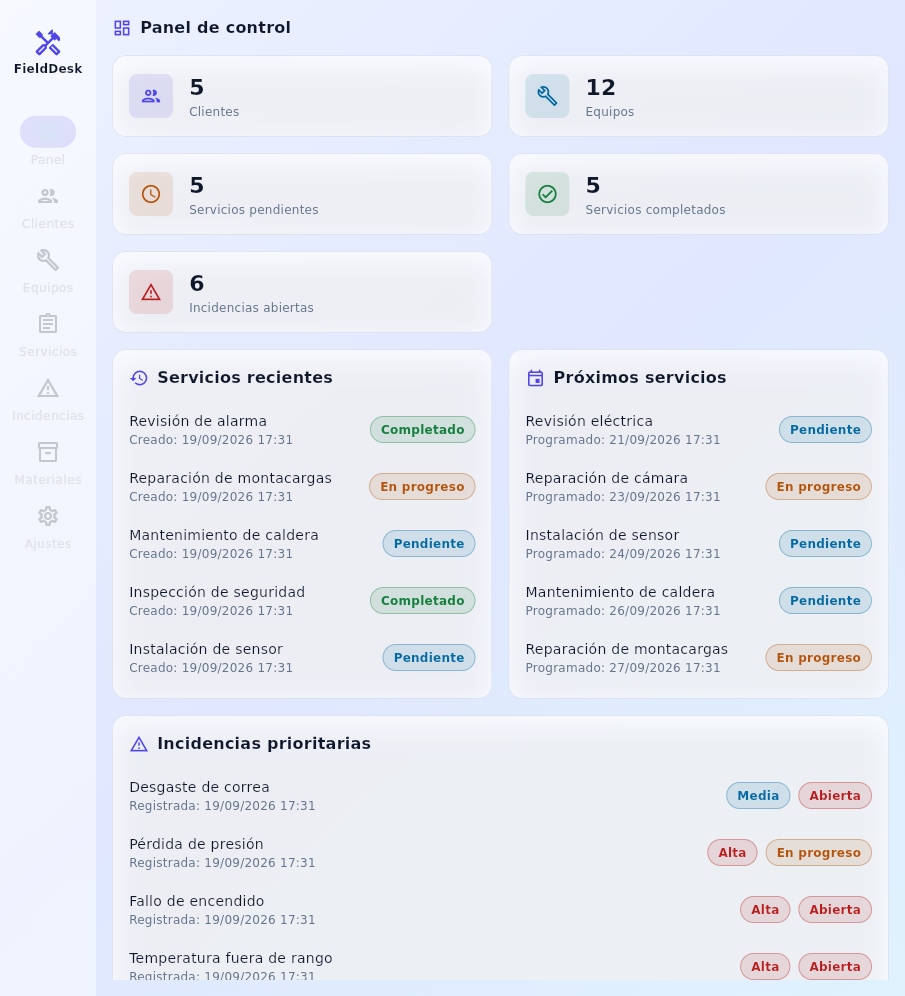
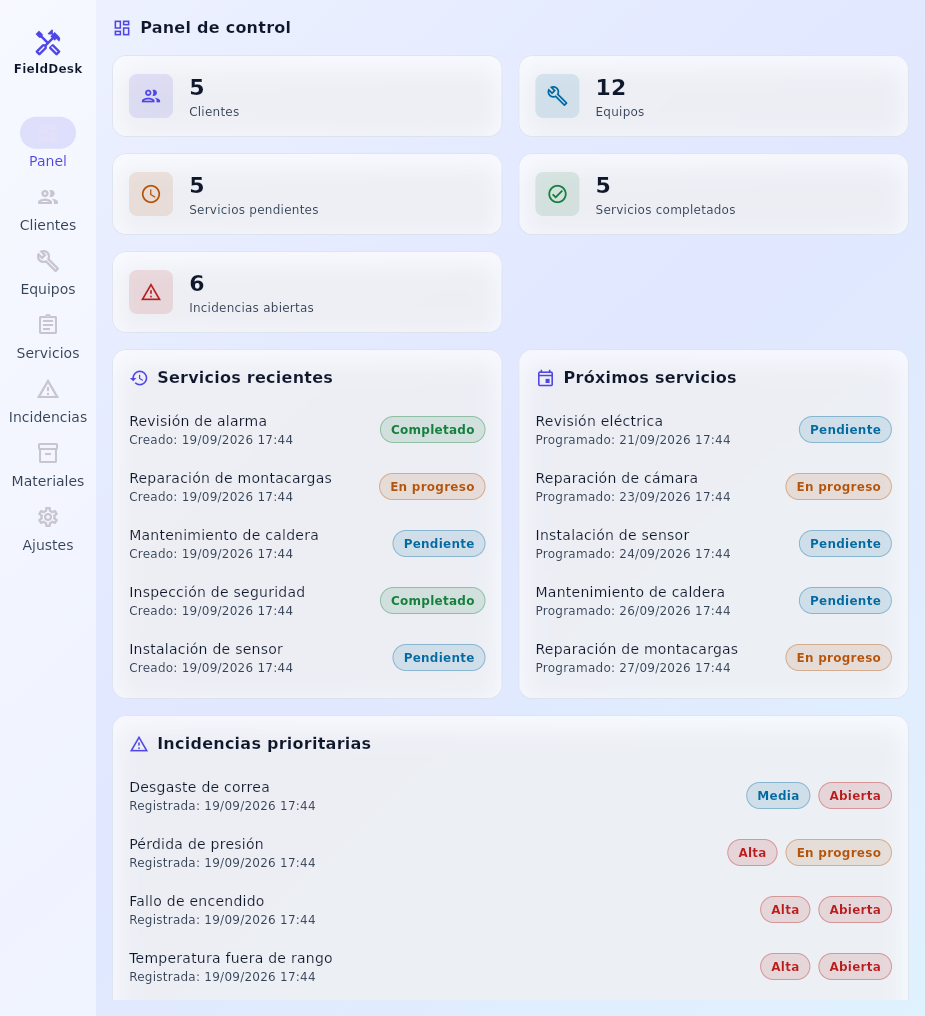
style: improve text colour legibility
- TEXT_MUTED de #64748B a #334155 para mayor contraste.
- Etiquetas de navegacion (rail/barra) con color oscuro legible.
- Capturas regeneradas reflejando el tema aplicado.

Solo cambios de color; sin cambios de estructura ni comportamiento.

diff --git a/app/components/theme.py b/app/components/theme.py
@@ -19,7 +19,7 @@ class Palette:
 
     SURFACE = "#FFFFFF"
     TEXT = "#0F172A"
-    TEXT_MUTED = "#64748B"
+    TEXT_MUTED = "#334155"
     BORDER = "#CBD5E1"
 
     PRIMARY = "#4F46E5"
@@ -100,6 +100,18 @@ def build_theme() -> ft.Theme:
         use_material3=True,
         primary_text_theme=ft.TextTheme(
             body_medium=ft.TextStyle(color=Palette.TEXT, size=FontSize.BODY)
+        ),
+        hint_color=Palette.TEXT_MUTED,
+        unselected_control_color=Palette.TEXT_MUTED,
+        secondary_header_color=Palette.TEXT_MUTED,
+        navigation_rail_theme=ft.NavigationRailTheme(
+            unselected_label_text_style=ft.TextStyle(
+                color=Palette.TEXT_MUTED
+            ),
+            selected_label_text_style=ft.TextStyle(color=Palette.PRIMARY),
+        ),
+        navigation_bar_theme=ft.NavigationBarTheme(
+            label_text_style=ft.TextStyle(color=Palette.TEXT_MUTED),
         ),
     )
 

diff --git a/scripts/capture_screenshots.py b/scripts/capture_screenshots.py
@@ -24,6 +24,7 @@ import flet as ft  # noqa: E402
 from app.config.settings import Settings  # noqa: E402
 from app.database import Database  # noqa: E402
 from app.database.migrations import run_migrations  # noqa: E402
+from app.components.theme import apply_theme  # noqa: E402
 from app.services import Services  # noqa: E402
 from app.views.app_shell import AppShell  # noqa: E402
 from app.views.context import AppContext  # noqa: E402
@@ -81,6 +82,7 @@ def main(page: ft.Page) -> None:
         file_picker=ft.FilePicker(),
         url_launcher=ft.UrlLauncher(),
     )
+    apply_theme(page)
     shell = AppShell(context)
     screenshot = ft.Screenshot(content=shell.build_root(), expand=True)
     page.add(screenshot)
